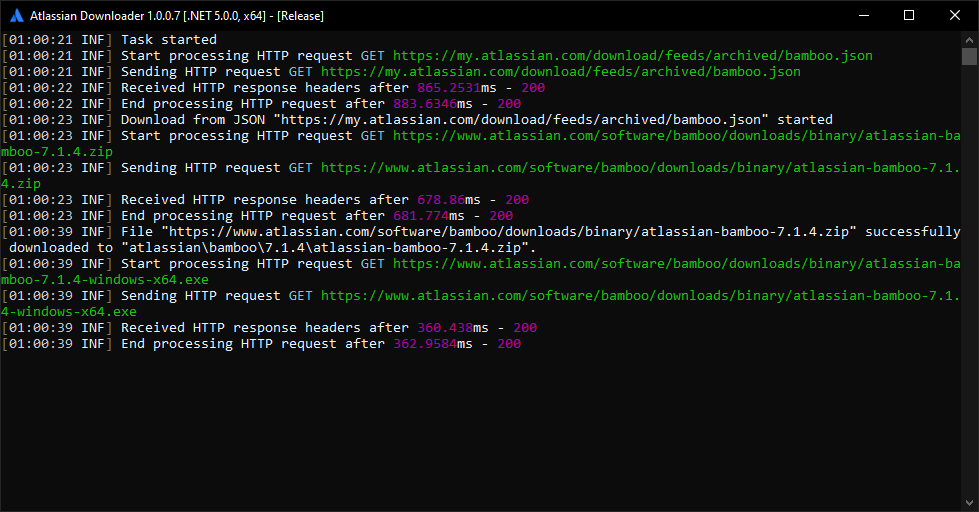
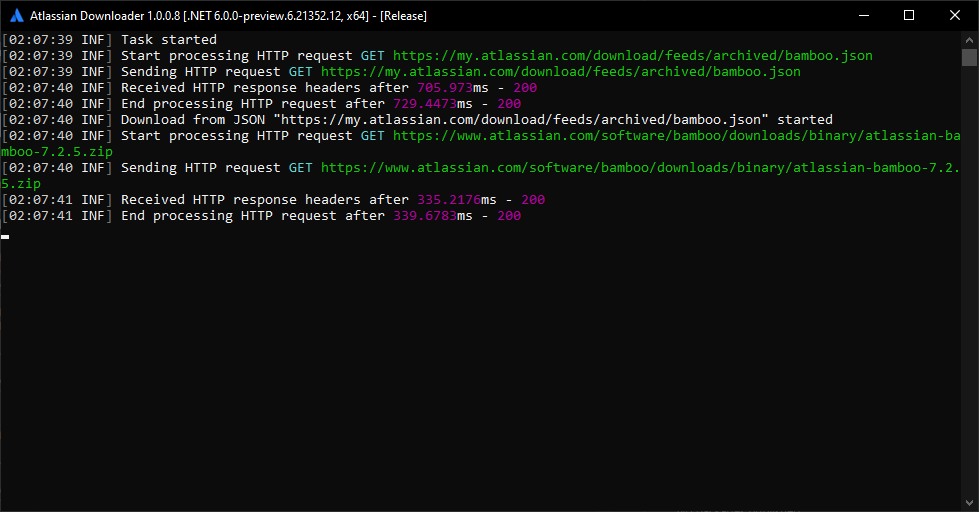
1.0.0.8

diff --git a/README.md b/README.md
@@ -2,16 +2,16 @@
 
 # Atlassian Downloader
 
-Console app written with `c#` and `dotnet5` for downloading all avalible products from `Atlassian`. Why not?
+Console app written with `c#` and `dotnet6` for downloading all avalible products from `Atlassian`. Why not?
 
 ![Atlassian Downloader](https://rawcdn.githack.com/EpicMorg/atlassian-downloader/74889a1b5cfa4d68c8c9175945481853f52aefed/.github/media/screenshot-01.png)
 ![Atlassian Downloader](https://rawcdn.githack.com/EpicMorg/atlassian-downloader/74889a1b5cfa4d68c8c9175945481853f52aefed/.github/media/screenshot-03.png)
 
 ## Requerments
-1. Preinstalled`*` `dotnet5`. Download [here](https://dotnet.microsoft.com/download/dotnet/5.0).
+1. Preinstalled`*` `dotnet6`. Download [here](https://dotnet.microsoft.com/download/dotnet/6.0).
 2. Supported OS: `win32/win64`, `linux`, `macosx`, `arm/arm64`
 
-`*` since version `1.0.0.4` application build asstandalone package and do not requre preinstalled `dotnet5`.
+`*` since version `1.0.0.4` application build asstandalone package and do not requre preinstalled `dotnet6`.
 
 # How to...
 ## ..bootstrap from scratch
